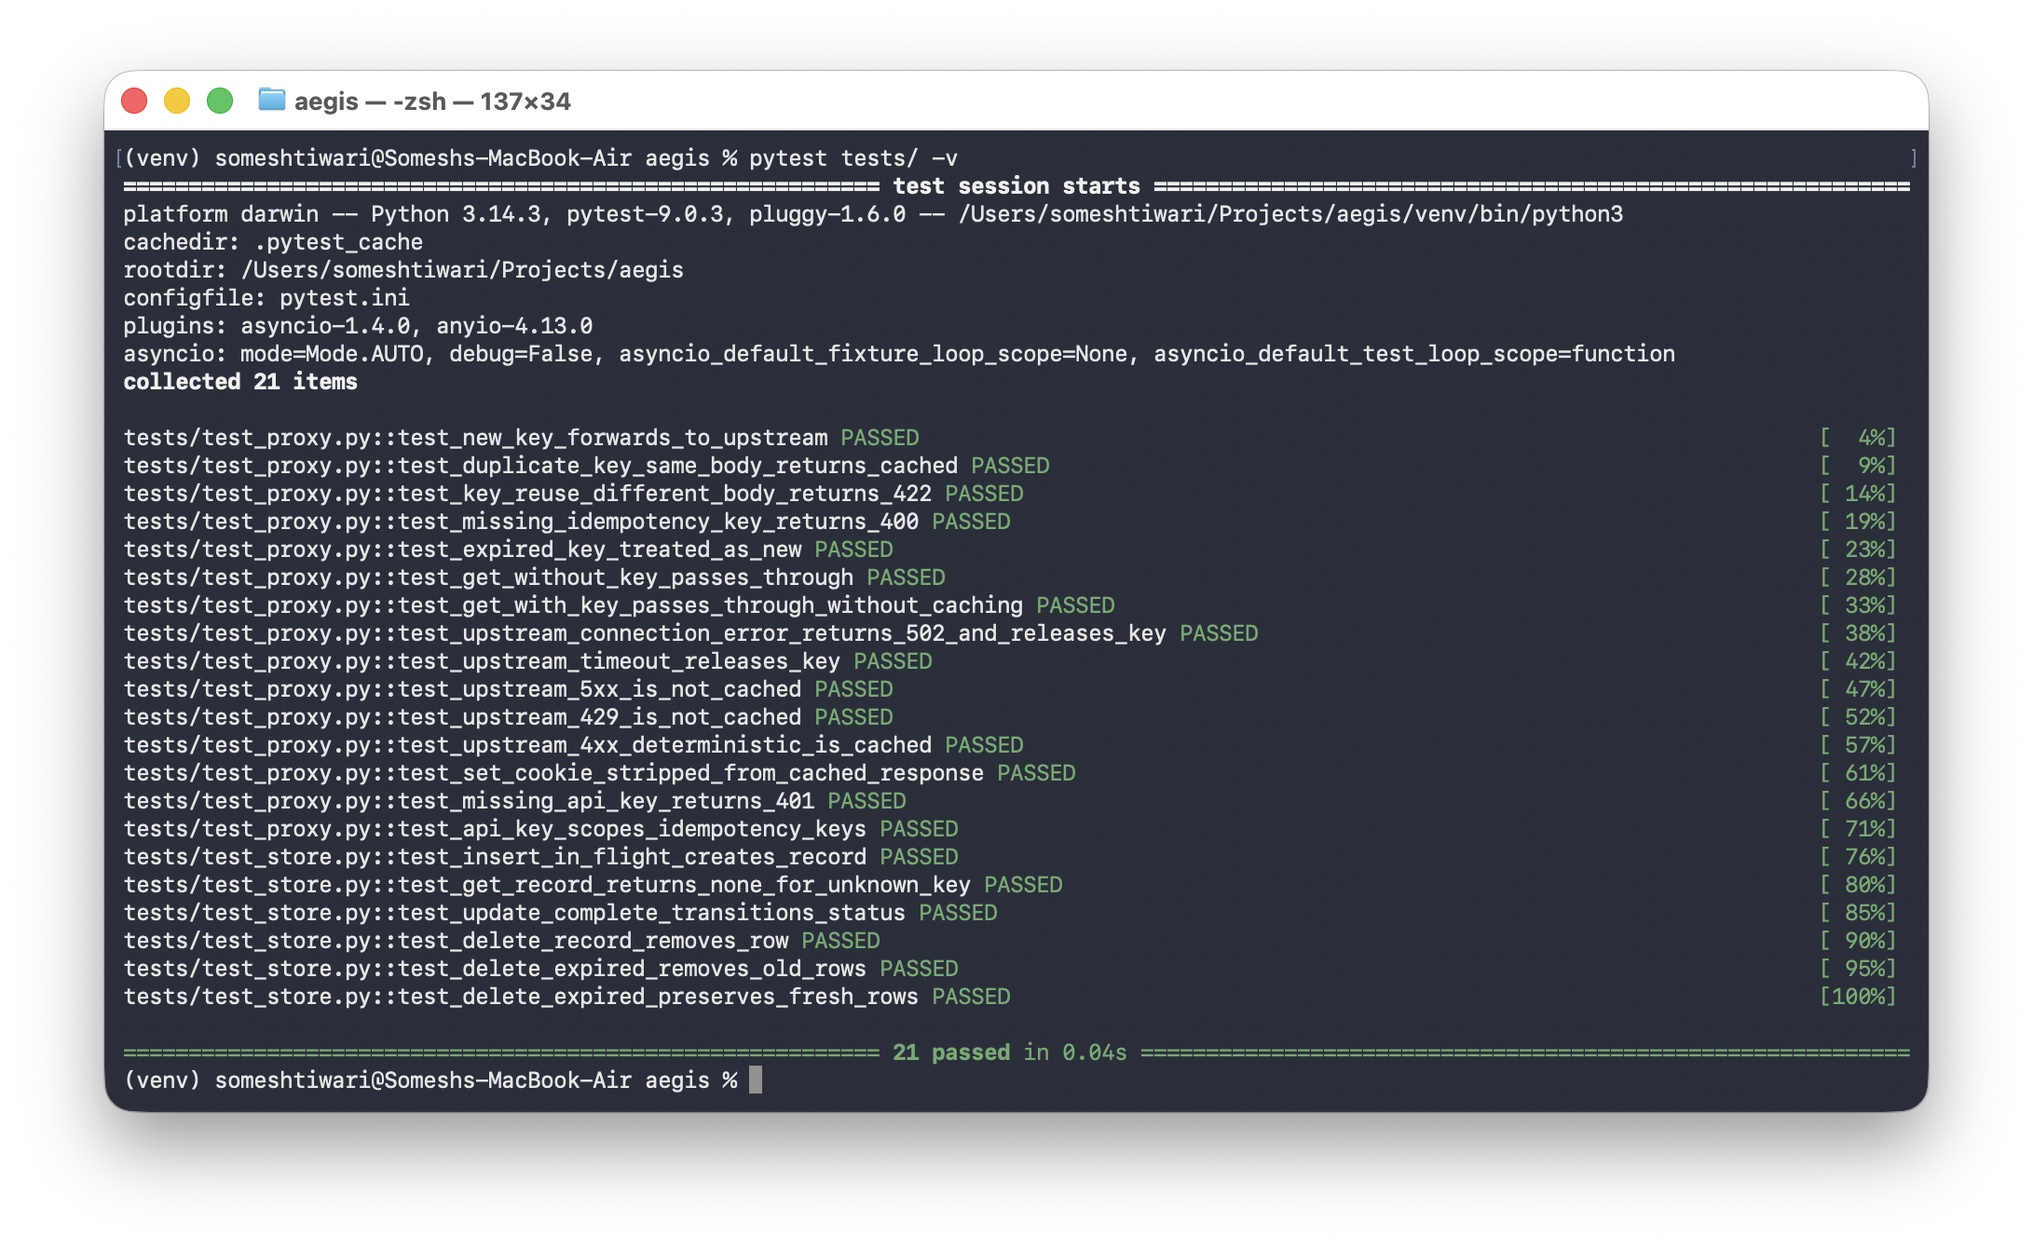
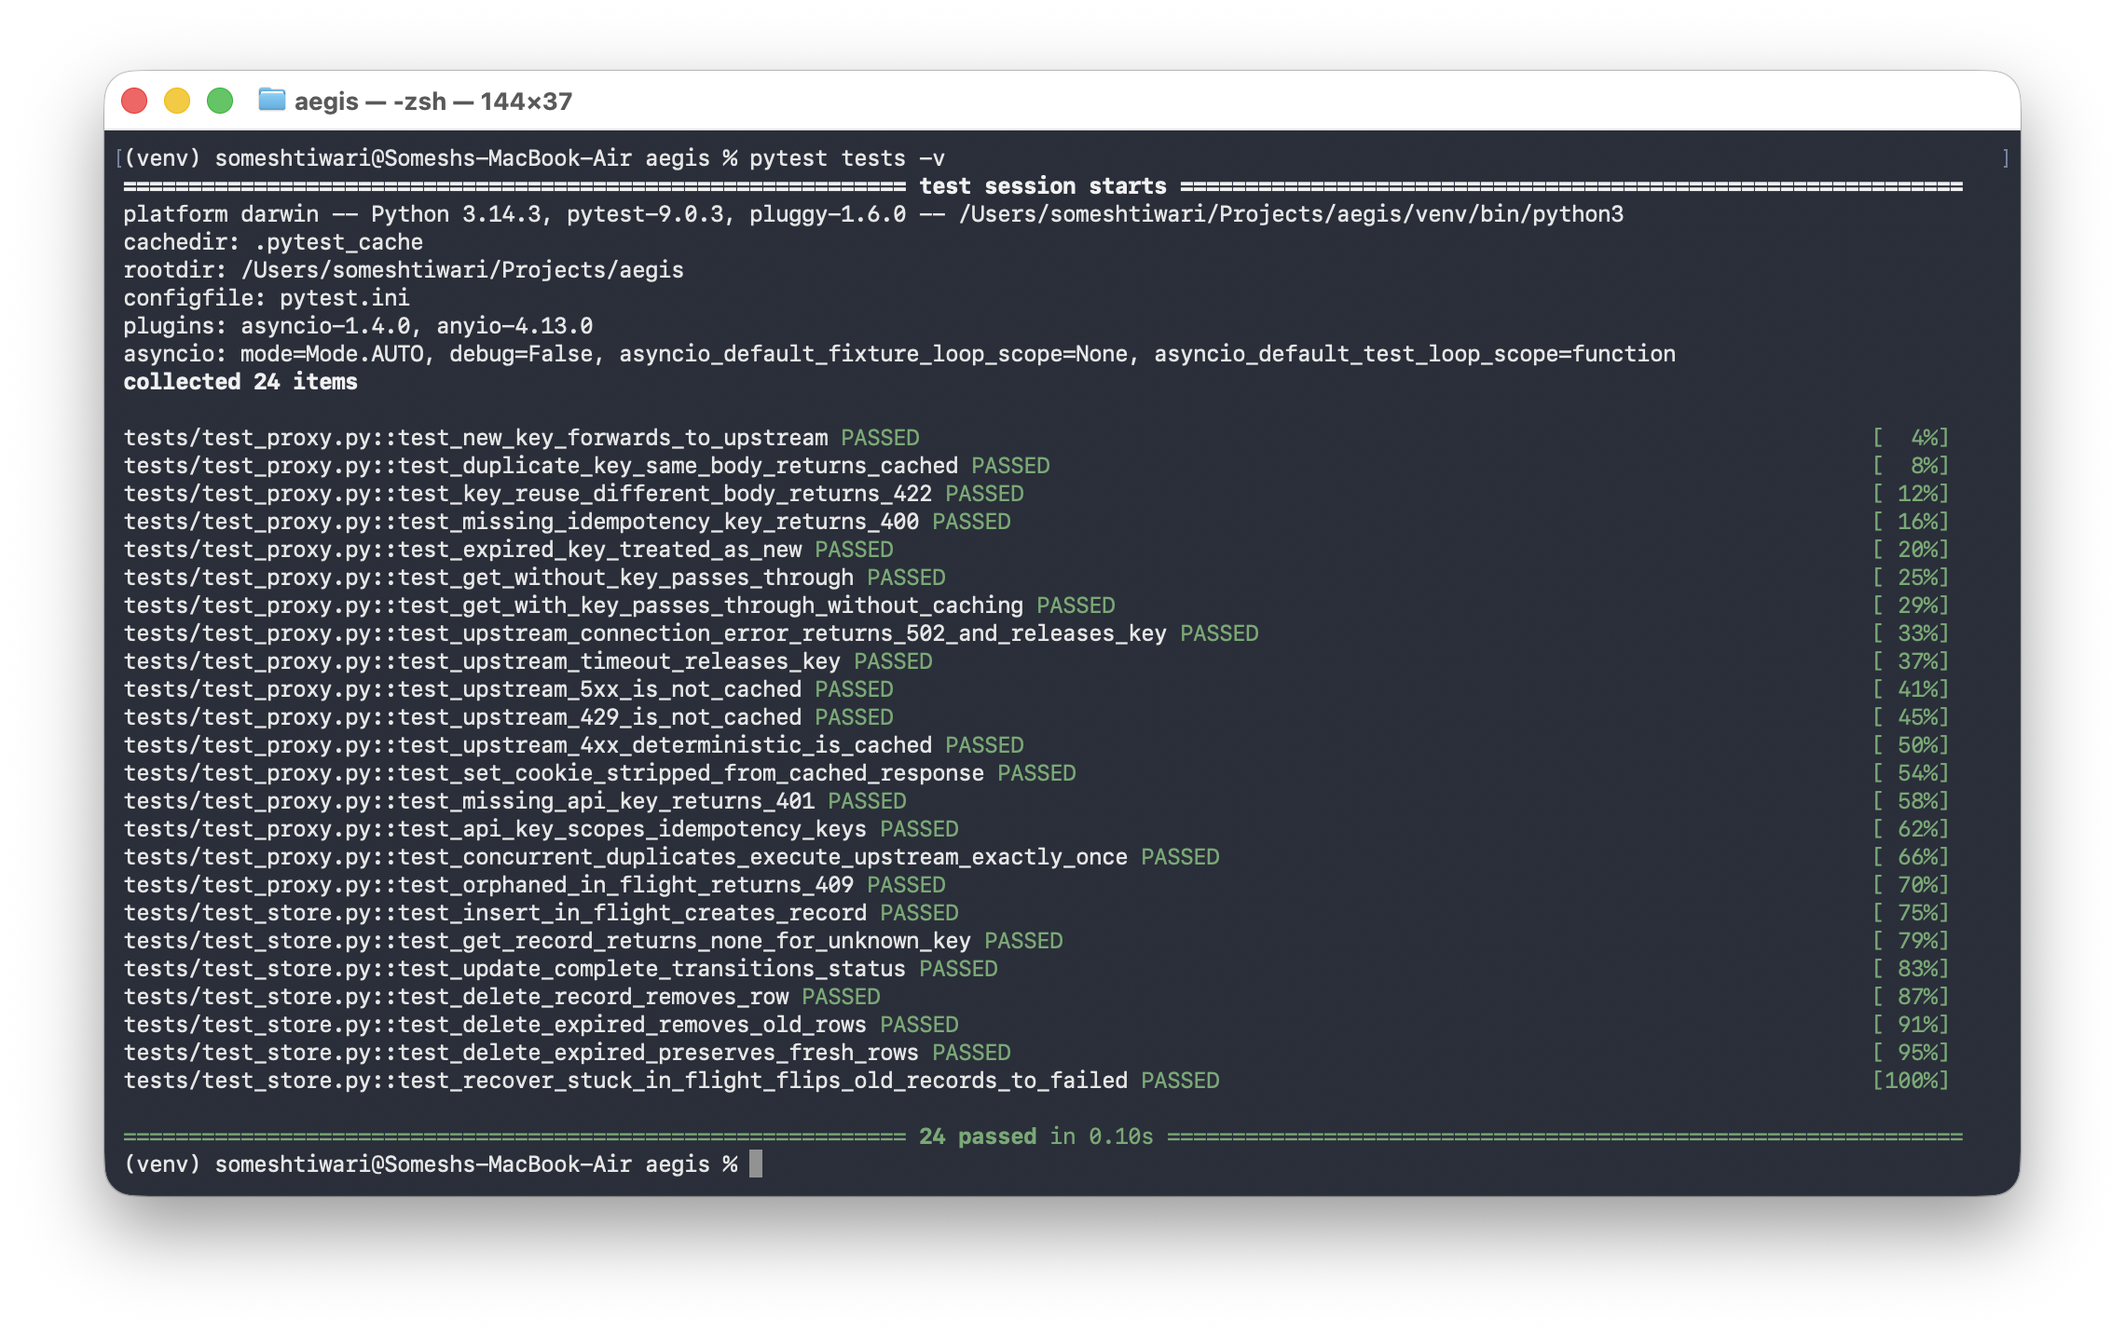
docs: fix timeout state machine, stale v1.0.0 counts, and cross-references
- DESIGN.md: timeout removed from the failed branch in §3 lifecycle and
  §4 state machine (it contradicted §9 and the code — timeouts delete the
  row and return 502); binary responses added to §11 non-goals; runtime
  in_flight age timeout added to §12 Post-MVP extensions
- DECISIONS.md: D-011 pooling ref → DESIGN §12; D-015 now lists
  content-encoding with the httpx auto-decompression rationale; BJ-001
  snippet matches shipped fingerprint.py (bytes + method.upper());
  BJ-009 — utcnow() was deprecated in Python 3.12, not 3.14
- README.md: "Seven Scenarios" (table had 7 rows since v1.1.0), state
  machine corrected, test badge/heading/alt-text → 24, accurate coverage
  list, UPSTREAM_TIMEOUT_SECONDS added to config table
- MANUAL_TESTS.md: 19 → 24; new Section 4b (401 missing X-API-Key,
  matches screenshot 06b); summary table updated
- SETUP.md: UPSTREAM_TIMEOUT_SECONDS in .env block; 401/400 expectations
  split; expected pytest output updated to 24 tests

Changed region(s): [[0.0312, 0.0611, 0.9661, 0.9165]]

diff --git a/README.md b/README.md
@@ -13,7 +13,7 @@ Guarantees at-most-once execution for retried HTTP requests — zero upstream ch
 [![Python](https://img.shields.io/badge/Python-3.10%2B-blue?style=flat-square&logo=python&logoColor=white)](https://www.python.org/)
 [![FastAPI](https://img.shields.io/badge/FastAPI-0.110%2B-009688?style=flat-square&logo=fastapi&logoColor=white)](https://fastapi.tiangolo.com/)
 [![SQLite](https://img.shields.io/badge/SQLite-aiosqlite-003B57?style=flat-square&logo=sqlite&logoColor=white)](https://sqlite.org/)
-[![Tests](https://img.shields.io/badge/tests-21%20passing-brightgreen?style=flat-square)](tests/)
+[![Tests](https://img.shields.io/badge/tests-24%20passing-brightgreen?style=flat-square)](tests/)
 [![License](https://img.shields.io/badge/License-MIT-green?style=flat-square)](LICENSE)
 
 </div>
@@ -41,7 +41,7 @@ Client ──► Aegis :8000 ──► Your Service :9000
 
 ---
 
-## The Six Scenarios
+## The Seven Scenarios
 
 | Request | Aegis Behaviour | Response |
 |---|---|---|
@@ -65,8 +65,9 @@ Every idempotency record moves through three states:
                     └──────┬──────┘
                            │
         ┌──────────────────┼───────────────────┐
-        │ upstream 2xx /   │ upstream 5xx/429 / │ crash (orphan,
-        │ deterministic 4xx│ timeout            │ recovered on startup)
+        │ upstream 2xx /   │ upstream 5xx/408/  │ crash (orphan,
+        │ deterministic 4xx│ 425/429 (non-      │ recovered on startup)
+        │                  │ cacheable)         │
         ▼                  ▼                    ▼
   ┌───────────┐      ┌──────────┐         ┌──────────┐
   │ completed │      │  failed  │         │  failed  │
@@ -80,7 +81,8 @@ Every idempotency record moves through three states:
 
 - **in_flight** — request is being forwarded to upstream, not yet resolved
 - **completed** — upstream responded successfully; the response is cached and replayed on retry
-- **failed** — upstream returned a transient error, timed out, or the process crashed mid-request; the key is retryable
+- **failed** — upstream returned a non-cacheable status (5xx/408/425/429), or the record was a crash orphan recovered on startup; the key is retryable
+- **Connection error / timeout** — handled outside the state machine: the `in_flight` row is **deleted**, the client gets `502`, and the key is released for immediate retry. No `failed` row is written for a network-level failure.
 
 ---
 
@@ -198,16 +200,16 @@ A record orphaned by a crash (planted here as an old `in_flight` row) is recover
 
 ### Failed record → retryable
 
-A `failed` record (from a 5xx, timeout, or recovered crash) does not lock the client out. The next request with the same key clears it and re-runs fresh — here `crash-001` goes from `failed` to `completed`.
+A `failed` record (from a non-cacheable 5xx/429 response or a recovered crash) does not lock the client out. The next request with the same key clears it and re-runs fresh — here `crash-001` goes from `failed` to `completed`.
 
 <div align="center">
 <img src="docs/screenshots/10-failed-retry.png" alt="Failed record retried successfully" width="950"/>
 </div>
 
-### Test suite — 21 passing
+### Test suite — 24 passing
 
 <div align="center">
-<img src="docs/screenshots/11-tests-passing.png" alt="19 tests passing" width="950"/>
+<img src="docs/screenshots/11-tests-passing.png" alt="24 tests passing" width="950"/>
 </div>
 
 ---
@@ -235,7 +237,7 @@ If Aegis crashes after writing `in_flight` but before writing the final state, t
 
 ### Failed Records Are Retryable
 
-A `failed` record (transient 5xx/429 upstream, a timeout, or a recovered crash) does not lock the client out. The next request with the same key clears the failed record and re-runs the request. This is the difference between `failed` and `completed`: completed responses are cached and replayed; failed records are retried.
+A `failed` record (a non-cacheable 5xx/408/425/429 upstream response, or a recovered crash) does not lock the client out. A connection error or timeout never creates a `failed` record at all — the key is deleted and released with a `502`. The next request with the same key clears the failed record and re-runs the request. This is the difference between `failed` and `completed`: completed responses are cached and replayed; failed records are retried.
 
 ### Multi-Tenant Key Scoping
 
@@ -366,6 +368,7 @@ aegis/
 | `TTL_SECONDS` | `86400` | Key lifetime in seconds (24 hours) |
 | `PORT` | `8000` | Aegis listening port |
 | `EVICTION_INTERVAL_SECONDS` | `300` | Background sweep interval (5 minutes) |
+| `UPSTREAM_TIMEOUT_SECONDS` | `30` | Timeout for upstream HTTP calls |
 
 > **Note:** `X-API-Key` is a per-request header supplied by each caller — it is not a server-side config value. The server does not validate key values; any non-empty string is accepted.
 
@@ -377,7 +380,7 @@ aegis/
 PYTHONPATH=. pytest tests/ -v
 ```
 
-21 tests covering all scenarios: new key, cache hit, 422 mismatch, 400 missing key, GET pass-through, concurrent retries, connection/timeout handling, 5xx and 429 not cached, deterministic 4xx cached, expired-key retry, and Set-Cookie stripping.
+24 tests covering all scenarios: new key, cache hit, 422 mismatch, 401 missing API key, 400 missing key, API-key scoping, GET pass-through, concurrent duplicates (5 simultaneous requests → exactly one upstream execution), 409 crash orphan, startup crash recovery, connection/timeout handling, 5xx and 429 not cached, deterministic 4xx cached, expired-key retry, and Set-Cookie stripping.
 
 ---
 

diff --git a/docs/DESIGN.md b/docs/DESIGN.md
@@ -137,7 +137,8 @@ INSERT (status = in_flight · response fields NULL · expires_at = now + TTL)
     ▼
 UPDATE (status = completed · response fields populated)
     │
-    │  upstream returns 5xx / 429 / timeout / crash
+    │  upstream returns non-cacheable status (5xx / 408 / 425 / 429)
+    │  — or crash orphan recovered on startup
     ▼
 UPDATE (status = failed · response fields populated)
     │
@@ -149,6 +150,12 @@ DELETE + re-INSERT (failed record cleared · fresh in_flight inserted)
     ▼
 DELETE (by eviction loop or on-access check)
 ```
+
+**Connection error / timeout is a separate path:** the `in_flight` row is
+**deleted** (not marked `failed`) and the client receives `502` — the key is
+released and immediately retryable. No `failed` row is ever written for a
+network-level failure; `failed` is reserved for non-cacheable upstream
+*responses* and recovered crash orphans.
 
 ---
 
@@ -162,8 +169,8 @@ DELETE (by eviction loop or on-access check)
            ┌────────────────────┼──────────────────────┐
            │                    │                       │
      upstream 2xx /       upstream 5xx /          crash (orphan
-     deterministic 4xx    429 / timeout /          recovered on
-                          non-cacheable            startup)
+     deterministic 4xx    408 / 425 / 429          recovered on
+                          (non-cacheable)          startup)
            │                    │                       │
            ▼                    ▼                       ▼
     ┌────────────┐        ┌──────────┐           ┌──────────┐
@@ -176,6 +183,10 @@ DELETE (by eviction loop or on-access check)
                          ┌──────────────┐
                          │  in_flight   │  (fresh execution)
                          └──────────────┘
+
+    Connection error / timeout (httpx.RequestError):
+    in_flight row is DELETED → client gets 502 → key released, retryable.
+    This path never produces a `failed` row (see §9, Error Taxonomy).
 ```
 
 | State | Meaning | What happens next |
@@ -542,6 +553,7 @@ or by `proxy.py`. There are no circular imports.
 | Prometheus metrics | Out of scope for this iteration |
 | Admin UI | Out of scope |
 | Library / SDK mode | Reverse proxy is cleaner — zero upstream changes needed |
+| Binary upstream responses | Responses are stored as decoded text (`response.text`); Aegis is scoped to JSON/text APIs. Binary bodies would require BLOB storage and base64 handling — out of scope for v1 |
 | LLM / AI | Unrelated to the problem domain |
 | Kubernetes manifests | Out of scope |
 
@@ -559,9 +571,10 @@ Natural next steps after the MVP ships. None are in scope for the current versio
 | **Distributed lock** | Replace `asyncio.Lock` with Redis `SET NX PX` for multi-node deployments. Only `lock_manager.py` changes. |
 | **Response streaming** | Buffer the full response before caching. Large responses would benefit from chunked caching. |
 | **Variable TTL per key** | The `expires_at` column already supports this. Add a `TTL-Override` header that overrides the global `TTL_SECONDS` at insert time. |
+| **Runtime in_flight age timeout** | Today, a crash orphan is only recovered at startup (`recover_stuck_in_flight`, 60s cutoff). If the process never restarts, the orphan returns `409` until TTL expiry. The extension: on encountering an `in_flight` record whose `created_at` is older than a threshold (e.g. 120s — beyond any legitimate upstream call given the 30s timeout), treat it as failed and allow retry with the same key, without waiting for a restart. |
 | **httpx connection pool** | Replace per-request `AsyncClient` with a module-level pooled client. Reuses TCP connections, reduces upstream latency. |
 
 ---
 
 *Author: Somesh Kant Tiwari*
-*Last updated: June 2026 — v1.1.0*
+*Last updated: June 2026 — v1.1.1*

diff --git a/docs/DECISIONS.md b/docs/DECISIONS.md
@@ -285,7 +285,8 @@ The `async with httpx.AsyncClient()` pattern creates a client, makes the request
 and cleanly closes all connections — no resource leaks.
 
 **For a production extension:** a module-level `AsyncClient` with connection
-pooling would improve throughput by reusing TCP connections. See D-012 (post-MVP).
+pooling would improve throughput by reusing TCP connections. See DESIGN.md §12
+(Post-MVP Extensions).
 
 **Trade-offs accepted:**
 - A new TCP connection is established for each upstream call
@@ -355,13 +356,22 @@ and cached responses.
 
 **Headers filtered:**
 `connection`, `keep-alive`, `proxy-authenticate`, `proxy-authorization`,
-`te`, `trailers`, `transfer-encoding`, `upgrade`, `content-length`
+`te`, `trailers`, `transfer-encoding`, `upgrade`, `content-length`,
+`content-encoding`
 
 **Why:**
 Hop-by-hop headers (RFC 2616 §13.5.1) are meaningful only for a single transport
 hop and must not be forwarded. Forwarding `Transfer-Encoding: chunked` confuses
 the upstream. `Content-Length` is stripped because `httpx` recalculates it for
 the forwarded request.
+
+**Why `content-encoding` is in the list (it is not hop-by-hop per the RFC):**
+`httpx` automatically decompresses response bodies. If the original
+`Content-Encoding: gzip` header were replayed alongside the already-decompressed
+bytes, the client would attempt to gunzip plain text and corrupt the response.
+The header describes an encoding that no longer exists after httpx's
+auto-decompression, so it must be stripped from every returned and cached
+response.
 
 ---
 
@@ -645,9 +655,12 @@ with body-only fingerprinting, same body + different endpoint = same fingerprint
 
 **The fix:**
 ```python
-data = method + "\n" + path + "\n" + body_str
-return hashlib.sha256(data.encode()).hexdigest()
+canonical = method.upper().encode() + b"\n" + path.encode() + b"\n" + body
+return hashlib.sha256(canonical).hexdigest()
 ```
+
+`method.upper()` normalises casing so `post` and `POST` fingerprint identically;
+working on bytes avoids decoding the body (which may not be valid UTF-8).
 
 The newline separators are intentional: they prevent `POST` + `/pay` + `ment`
 from producing the same hash as `POST` + `/payment` + `""`.
@@ -818,7 +831,7 @@ Postgres migration I'd switch to `timestamptz` — a contained change in `store.
 ## BJ-009 · `deprecation warning` on `datetime.utcnow()`
 
 **What was wrong:**
-Python 3.14 deprecated `datetime.utcnow()`. The original model used it in
+Python 3.12 deprecated `datetime.utcnow()`. The original model used it in
 `default_factory` for timestamp fields, producing `DeprecationWarning` on
 every test run.
 

diff --git a/MANUAL_TESTS.md b/MANUAL_TESTS.md
@@ -4,7 +4,7 @@ Step-by-step walkthrough that proves every behaviour of the idempotency proxy
 by hand. Each section covers: what it proves, the exact commands, and the
 expected output. Screenshot each PASS — these are your live demo evidence.
 
-The automated suite (`pytest tests/ -v`, 19 tests) proves the same conditions
+The automated suite (`pytest tests/ -v`, 24 tests) proves the same conditions
 in code. This guide is for seeing them happen live.
 
 ---
@@ -122,6 +122,34 @@ curl -i -X POST http://localhost:8000/orders \
 ```
 
 📸 **Screenshot `06-missing-key-400.png`**
+
+---
+
+## Section 4b — Missing X-API-Key: 401
+
+**Proves:** authentication precedes idempotency — a non-GET request without
+`X-API-Key` is rejected before any idempotency logic runs, even when an
+`Idempotency-Key` is present.
+
+```bash
+curl -i -X POST http://localhost:8000/orders \
+  -H "Idempotency-Key: demo-401" \
+  -H "Content-Type: application/json" \
+  -d '{"item":"book"}'
+```
+
+**Expect:** `HTTP/1.1 401 Unauthorized`
+```json
+{"error": "X-API-Key header is required"}
+```
+
+**Verify nothing was written** — the request never reached the idempotency layer:
+```bash
+sqlite3 aegis.db "SELECT COUNT(*) FROM idempotency_keys WHERE key LIKE '%demo-401';"
+```
+**Expect:** `0`
+
+📸 **Screenshot `06b-missing-api-key-401.png`**
 
 ---
 
@@ -272,12 +300,13 @@ sqlite3 aegis.db "SELECT COUNT(*) FROM idempotency_keys WHERE key='old-001';"
 | 1 | New key | Forward + cache |
 | 2 | Duplicate, same body | Cache hit, upstream not called |
 | 3 | Same key, diff body | SHA-256 fingerprint mismatch → 422 |
-| 4 | Missing header | 400 contract enforcement |
+| 4 | Missing Idempotency-Key | 400 contract enforcement |
+| 4b | Missing X-API-Key | 401 — auth precedes idempotency |
 | 5 | GET | Pass-through, never cached |
 | 6 | Concurrent retries | Per-key `asyncio.Lock` → one execution |
 | 7 | Crash recovery | Startup `recover_stuck_in_flight()` |
 | 8 | Failed retry | `failed` records are retryable |
 | 9 | TTL eviction | Background sweep on `expires_at` |
 
-These nine sections cover every guarantee Aegis makes. Captured screenshots
+These ten sections cover every guarantee Aegis makes. Captured screenshots
 are stronger interview evidence than "it has tests" — they show it running.

diff --git a/SETUP.md b/SETUP.md
@@ -79,6 +79,7 @@ DB_PATH=aegis.db
 TTL_SECONDS=86400
 PORT=8000
 EVICTION_INTERVAL_SECONDS=300
+UPSTREAM_TIMEOUT_SECONDS=30
 EOF
 ```
 
@@ -203,7 +204,7 @@ curl -X POST http://localhost:8000/payments \
 
 **Expect:** `422 Unprocessable Content`
 
-### Missing header — should return 400
+### Missing headers — 401 then 400
 
 ```bash
 # Missing X-API-Key → 401
@@ -218,7 +219,7 @@ curl -X POST http://localhost:8000/payments \
   -d '{"amount": 100}'
 ```
 
-**Expect:** `400 Bad Request`
+**Expect:** `401 Unauthorized` for the first command, `400 Bad Request` for the second.
 
 ### GET request — should pass through
 
@@ -255,14 +256,19 @@ tests/test_proxy.py::test_upstream_5xx_is_not_cached PASSED
 tests/test_proxy.py::test_upstream_429_is_not_cached PASSED
 tests/test_proxy.py::test_upstream_4xx_deterministic_is_cached PASSED
 tests/test_proxy.py::test_set_cookie_stripped_from_cached_response PASSED
+tests/test_proxy.py::test_missing_api_key_returns_401 PASSED
+tests/test_proxy.py::test_api_key_scopes_idempotency_keys PASSED
+tests/test_proxy.py::test_concurrent_duplicates_execute_upstream_exactly_once PASSED
+tests/test_proxy.py::test_orphaned_in_flight_returns_409 PASSED
 tests/test_store.py::test_insert_in_flight_creates_record PASSED
 tests/test_store.py::test_get_record_returns_none_for_unknown_key PASSED
 tests/test_store.py::test_update_complete_transitions_status PASSED
 tests/test_store.py::test_delete_record_removes_row PASSED
 tests/test_store.py::test_delete_expired_removes_old_rows PASSED
 tests/test_store.py::test_delete_expired_preserves_fresh_rows PASSED
+tests/test_store.py::test_recover_stuck_in_flight_flips_old_records_to_failed PASSED
 
-21 passed in 0.04s
+24 passed in 0.25s
 ```
 
 ---
